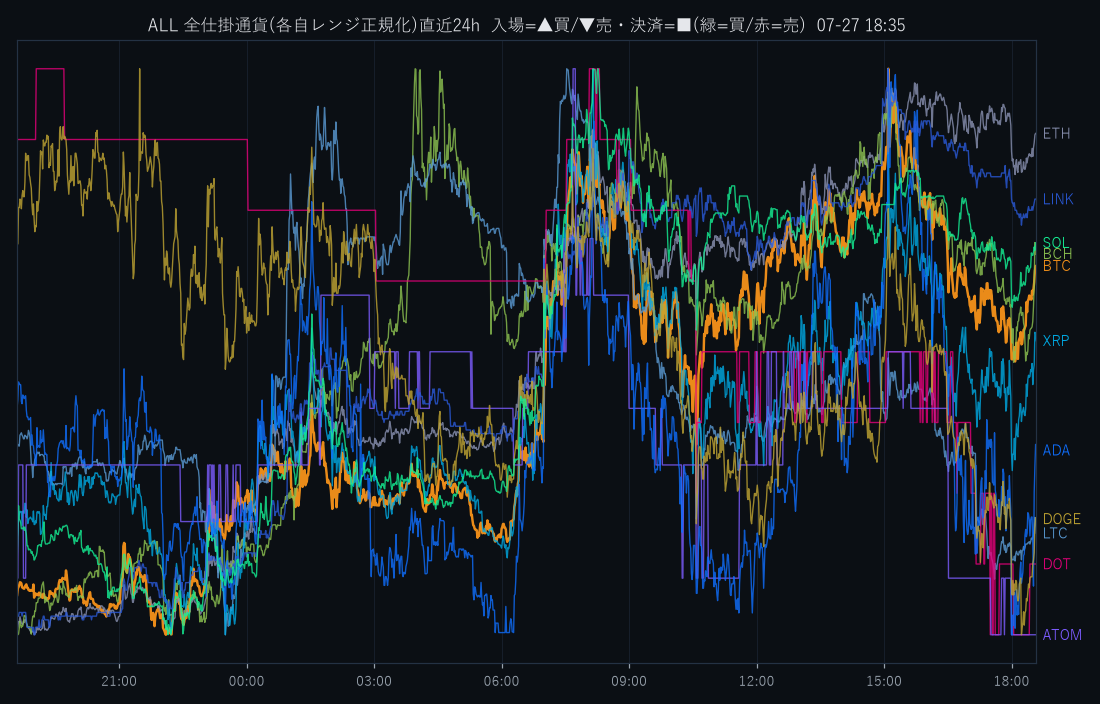
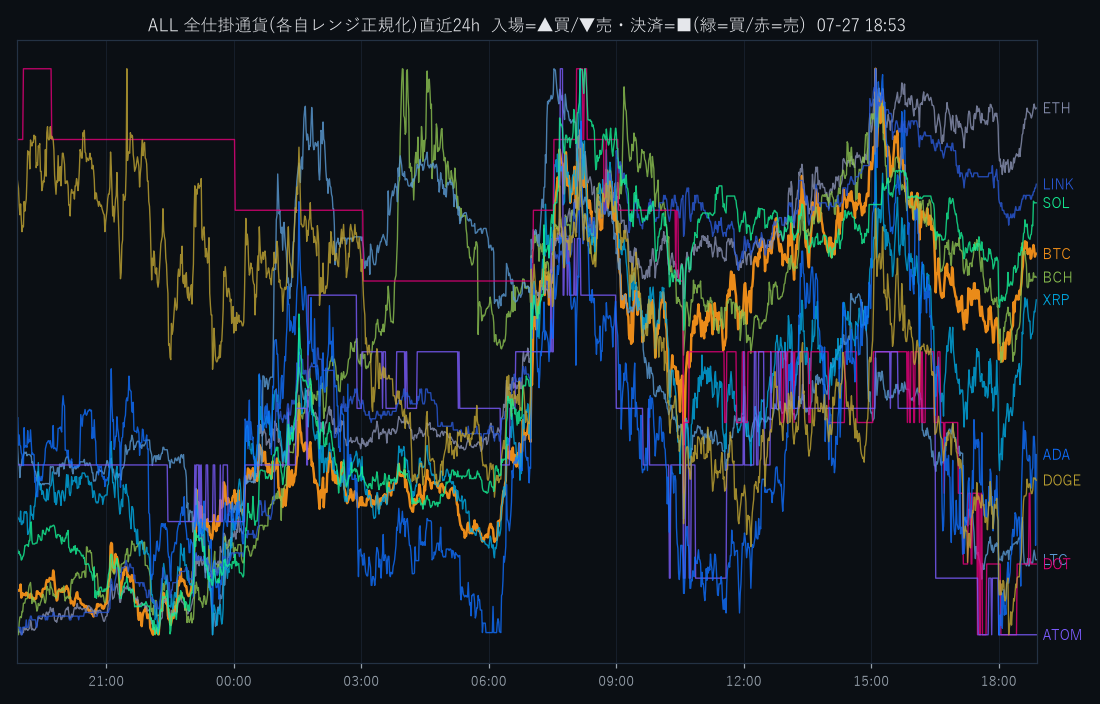
Coin100S 運用状況更新 07-27 18:53

diff --git a/coin100s-795hc4jfv8/index.html b/coin100s-795hc4jfv8/index.html
@@ -25,5 +25,5 @@ a{color:#60a5fa;text-decoration:none} a:hover{text-decoration:underline}
 <p><a href="status.html"><b>▶ 運用状況の詳細(チャート・本日の取引・レジーム)</b></a></p>
 <h2>日報一覧</h2>
 <table><tr><th>取引日</th><th>実現損益</th><th>総括</th></tr><tr><td><a href='reports/20260726_Coin100S日報.html'>2026-07-26</a></td><td class="pos">+0円</td><td class='meta'>実取引はノートレード（新規・決済なし）。警告/孤児/エラーなし＝健全。</td></tr><tr><td><a href='reports/20260725_Coin100S日報.html'>2026-07-25</a></td><td class="pos">+0円</td><td class='meta'>実取引: 新規0件/決済17件、実現損益 +0円。警告/孤児/エラーなし＝健全。</td></tr><tr><td><a href='reports/20260724_Coin100S日報.html'>2026-07-24</a></td><td class="pos">+0円</td><td class='meta'>実取引: 新規6件/決済17件、実現損益 +0円。シグナル却下3件（最多: BW10M3_5M／トレンド方向ゲート(N分傾き下と不一致=逆張り方向のfade禁止)）。⚠警告/エラー 12件（要確認）。</td></tr><tr><td><a href='reports/20260723_Coin100S日報.html'>2026-07-23</a></td><td class="pos">+0円</td><td class='meta'>実取引: 新規8件/決済3件、実現損益 +0円。警告/孤児/エラーなし＝健全。</td></tr><tr><td><a href='reports/20260722_Coin100S日報.html'>2026-07-22</a></td><td class="pos">+0円</td><td class='meta'>実取引: 新規10件/決済5件、実現損益 +0円。シグナル却下1件（最多: BW10M3_5M／トレンド方向ゲート(N分傾き下と不一致=逆張り方向のfade禁止)）。⚠警告/エラー 9件（要確認）。</td></tr><tr><td><a href='reports/20260721_Coin100S日報.html'>2026-07-21</a></td><td class="pos">+0円</td><td class='meta'>実取引: 新規4件/決済13件、実現損益 +0円。⚠警告/エラー 13件（要確認）。</td></tr><tr><td><a href='reports/20260720_Coin100S日報.html'>2026-07-20</a></td><td class="pos">+0円</td><td class='meta'>実取引: 新規8件/決済21件、実現損益 +0円。シグナル却下8件（最多: BW10M3_5M／トレンド方向ゲート(N分傾き上と不一致=逆張り方向のfade禁止)）。⚠警告/エラー 13件（要確認）。</td></tr><tr><td><a href='reports/20260719_Coin100S日報.html'>2026-07-19</a></td><td class="pos">+0円</td><td class='meta'>実取引: 新規10件/決済7件、実現損益 +0円。⚠警告/エラー 3件（要確認）。</td></tr><tr><td><a href='reports/20260718_Coin100S日報.html'>2026-07-18</a></td><td class="pos">+0円</td><td class='meta'>実取引: 新規9件/決済8件、実現損益 +0円。警告/孤児/エラーなし＝健全。</td></tr><tr><td><a href='reports/20260717_Coin100S日報.html'>2026-07-17</a></td><td class="pos">+0円</td><td class='meta'>実取引: 新規3件/決済2件、実現損益 +0円。シグナル却下1件（最多: BW10M3_5M／トレンド方向ゲート(N分傾き下と不一致=逆張り方向のfade禁止)）。⚠警告/エラー 2件（要確認）。</td></tr><tr><td><a href='reports/20260716_Coin100S日報.html'>2026-07-16</a></td><td class="pos">+0円</td><td class='meta'>実取引: 新規0件/決済5件、実現損益 +0円。⚠警告/エラー 7件（要確認）。</td></tr><tr><td><a href='reports/20260715_Coin100S日報.html'>2026-07-15</a></td><td class="pos">+0円</td><td class='meta'>実取引: 新規6件/決済5件、実現損益 +0円。シグナル却下6件（最多: BW10M3_5M／トレンド方向ゲート(N分傾き上と不一致=逆張り方向のfade禁止)）。⚠警告/エラー 7件（要確認）。</td></tr><tr><td><a href='reports/20260714_Coin100S日報.html'>2026-07-14</a></td><td class="pos">+0円</td><td class='meta'>実取引: 新規6件/決済18件、実現損益 +0円。シグナル却下5件（最多: BW10M3_5M／トレンド方向ゲート(N分傾き上と不一致=逆張り方向のfade禁止)）。⚠警告/エラー 9件（要確認）。</td></tr><tr><td><a href='reports/20260713_Coin100S日報.html'>2026-07-13</a></td><td class="pos">+0円</td><td class='meta'>実取引: 新規5件/決済8件、実現損益 +0円。シグナル却下1件（最多: BW10M3_5M／トレンド方向ゲート(N分傾き上と不一致=逆張り方向のfade禁止)）。警告/孤児/エラーなし＝健全。</td></tr><tr><td><a href='reports/20260712_Coin100S日報.html'>2026-07-12</a></td><td class="pos">+0円</td><td class='meta'>実取引: 新規14件/決済6件、実現損益 +0円。シグナル却下5件（最多: BW10M3_5M／トレンド方向ゲート(N分傾き下と不一致=逆張り方向のfade禁止)）。⚠警告/エラー 2件（要確認）。</td></tr><tr><td><a href='reports/20260711_Coin100S日報.html'>2026-07-11</a></td><td class="pos">+0円</td><td class='meta'>実取引: 新規7件/決済6件、実現損益 +0円。⚠警告/エラー 52件（要確認）。</td></tr><tr><td><a href='reports/20260710_Coin100S日報.html'>2026-07-10</a></td><td class="pos">+0円</td><td class='meta'>実取引: 新規7件/決済6件、実現損益 +0円。シグナル却下6件（最多: BW10M3_5M／トレンド方向ゲート(N分傾き上と不一致=逆張り方向のfade禁止)）。警告/孤児/エラーなし＝健全。</td></tr><tr><td><a href='reports/20260709_Coin100S日報.html'>2026-07-09</a></td><td class="pos">+0円</td><td class='meta'>実取引: 新規8件/決済3件、実現損益 +0円。シグナル却下5件（最多: SD120M_5M／トレンド方向ゲート(N分傾き上と不一致=逆張り方向のfade禁止)）。警告/孤児/エラーなし＝健全。</td></tr><tr><td><a href='reports/20260708_Coin100S日報.html'>2026-07-08</a></td><td class="pos">+0円</td><td class='meta'>実取引: 新規2件/決済4件、実現損益 +0円。シグナル却下4件（最多: SD120M_5M／トレンド方向ゲート(N分傾き下と不一致=逆張り方向のfade禁止)）。警告/孤児/エラーなし＝健全。</td></tr><tr><td><a href='reports/20260707_Coin100S日報.html'>2026-07-07</a></td><td class="pos">+0円</td><td class='meta'>実取引: 新規8件/決済6件、実現損益 +0円。シグナル却下4件（最多: SD120M_5M／トレンド方向ゲート(N分傾き上と不一致=逆張り方向のfade禁止)）。⚠警告/エラー 258件（要確認）。</td></tr><tr><td><a href='reports/20260706_Coin100S日報.html'>2026-07-06</a></td><td class="pos">+0円</td><td class='meta'>実取引: 新規9件/決済6件、実現損益 +0円。シグナル却下9件（最多: SD120M_5M／トレンド方向ゲート(N分傾き上と不一致=逆張り方向のfade禁止)）。⚠警告/エラー 150件（要確認）。</td></tr><tr><td><a href='reports/20260705_Coin100S日報.html'>2026-07-05</a></td><td class="pos">+0円</td><td class='meta'>実取引: 新規8件/決済3件、実現損益 +0円。⚠警告/エラー 2件（要確認）。</td></tr><tr><td><a href='reports/20260704_Coin100S日報.html'>2026-07-04</a></td><td class="pos">+0円</td><td class='meta'>実取引: 新規1件/決済2件、実現損益 +0円。⚠警告/エラー 2件（要確認）。</td></tr><tr><td><a href='reports/20260703_Coin100S日報.html'>2026-07-03</a></td><td class="pos">+0円</td><td class='meta'>実取引: 新規5件/決済4件、実現損益 +0円。⚠警告/エラー 15件（要確認）。</td></tr><tr><td><a href='reports/20260702_Coin100S日報.html'>2026-07-02</a></td><td class="pos">+0円</td><td class='meta'>実取引: 新規7件/決済5件、実現損益 +0円。シグナル却下17件（最多: SD120M_5M／トレンド方向ゲート(N分傾き上と不一致=逆張り方向のfade禁止)）。⚠警告/エラー 26件（要確認）。</td></tr><tr><td><a href='reports/20260701_Coin100S日報.html'>2026-07-01</a></td><td class="pos">+0円</td><td class='meta'>実取引: 新規14件/決済8件、実現損益 +0円。シグナル却下14件（最多: SD120M_5M／ボラ軸ゲート(SDN%&amp;gt;N%=高ボラ/荒れレンジ)）。⚠警告/エラー 2件（要確認）。</td></tr><tr><td><a href='reports/20260630_Coin100S日報.html'>2026-06-30</a></td><td class="pos">+0円</td><td class='meta'>実取引: 新規0件/決済1件、実現損益 +0円。シグナル却下29件（最多: 微5M／当日枠N）。警告/孤児/エラーなし＝健全。</td></tr></table>
-<hr><p class="meta">更新: 2026-07-27 18:47:21 / 自動生成: tools/web_publish.py(§580)</p>
+<hr><p class="meta">更新: 2026-07-27 18:53:22 / 自動生成: tools/web_publish.py(§580)</p>
 </body></html>

diff --git a/coin100s-795hc4jfv8/status.html b/coin100s-795hc4jfv8/status.html
@@ -14,7 +14,7 @@ a{color:#60a5fa;text-decoration:none} a:hover{text-decoration:underline}
 .meta{color:#94a3b8;font-size:13px}</style>
 <script>setTimeout(function(){location.replace(location.pathname+"?t="+Date.now());},300000);</script></head><body>
 <h1>Coin100S 運用状況</h1>
-<p class="meta">スナップショット: 2026-07-25 08:26:13 / ページ生成: 2026-07-27 18:47:20(自動リロード・最新化) / <a href="index.html">目次へ</a></p>
+<p class="meta">スナップショット: 2026-07-25 08:26:13 / ページ生成: 2026-07-27 18:53:22(自動リロード・最新化) / <a href="index.html">目次へ</a></p>
 <div class="cards">
 <div class="card">建玉数<div class="v">0</div></div>
 <div class="card">本日損益<div class="v neg">-3,477円</div></div>
@@ -23,13 +23,13 @@ a{color:#60a5fa;text-decoration:none} a:hover{text-decoration:underline}
 <h2>資産推移(直近30日)</h2>
 <p class='meta'>(資産推移PNG未生成=アプリ稼働待ち)</p>
 <h2>取引チャート(直近24h)</h2>
-<img src="status_chart.png?t=1847" alt="chart">
+<img src="status_chart.png?t=1853" alt="chart">
 <h2>建玉一覧</h2>
 <table><tr><th>銘柄</th><th>側</th><th>数量</th><th>建値</th><th>含損益</th><th>レッグ</th></tr><tr><td colspan=6>建玉なし(flat)</td></tr></table>
 <h2>実現決済履歴(直近15件・OrderId単位)</h2>
 <table><tr><th>決済時刻</th><th>レッグ</th><th>銘柄</th><th>実現損益</th></tr><tr><td>07-25 06:08</td><td>RELVALP_SELL</td><td>ETH</td><td class="pos">+382円</td></tr><tr><td>07-25 06:08</td><td>RELVALP_SELL</td><td>ETH</td><td class="pos">+72円</td></tr><tr><td>07-25 06:08</td><td>RELVALP_SELL</td><td>LINK</td><td class="pos">+342円</td></tr><tr><td>07-25 06:08</td><td>RELVALP_SELL</td><td>ETH</td><td class="pos">+72円</td></tr><tr><td>07-25 06:08</td><td>RELVALP_SELL</td><td>LINK</td><td class="pos">+54円</td></tr><tr><td>07-25 06:08</td><td>RELVALP_SL700</td><td>LINK</td><td class="pos">+228円</td></tr><tr><td>07-25 06:08</td><td>RELVALP_SELL</td><td>ETH</td><td class="pos">+290円</td></tr><tr><td>07-25 06:08</td><td>RELVALP_SL700</td><td>ETH</td><td class="pos">+190円</td></tr><tr><td>07-25 06:08</td><td>RELVALP_SELL</td><td>LINK</td><td class="pos">+189円</td></tr><tr><td>07-25 06:08</td><td>RELVALP_SL700</td><td>LINK</td><td class="pos">+162円</td></tr><tr><td>07-25 06:01</td><td>TENKI5D_REV_BTC</td><td>BTC</td><td class="neg">-921円</td></tr><tr><td>07-25 06:01</td><td>TENKI5D_REV_DOGE</td><td>DOGE</td><td class="neg">-611円</td></tr><tr><td>07-25 06:01</td><td>TENKI5D_REV_BTC</td><td>BTC</td><td class="neg">-691円</td></tr><tr><td>07-25 06:01</td><td>TENKI5D_REV_SOL</td><td>SOL</td><td class="neg">-1,376円</td></tr><tr><td>07-25 06:01</td><td>TENKI5D_REV_DOGE</td><td>DOGE</td><td class="neg">-1円</td></tr></table>
 <!-- §799c 「本取引日の実取引(6:00起点)」テーブルは公開ページから削除(ユーザー指示2026-07-15・数量/指値まで晒す情報漏れ)。建玉/実現損益は許可・実発注の生取引明細は非公開 -->
 <h2>現在レジーム(3軸・§570c)</h2>
-<ul><li>アルト対BTC 5日: <b>+30bps</b>(アルト優越=RELVAL逆風)</li><li>BTC ER240m: <b>0.018</b>(閾値0.25→レンジ(fade順風/BWTRD逆風))</li><li>BTC実現ボラ240m: <b>3.61</b> bps/分</li></ul>
+<ul><li>アルト対BTC 5日: <b>+30bps</b>(アルト優越=RELVAL逆風)</li><li>BTC ER240m: <b>0.028</b>(閾値0.25→レンジ(fade順風/BWTRD逆風))</li><li>BTC実現ボラ240m: <b>3.61</b> bps/分</li></ul>
 <hr><p class="meta">自動生成: tools/web_publish.py(§580・読み取り専用)。売買判断はアプリ本体。</p>
 </body></html>
